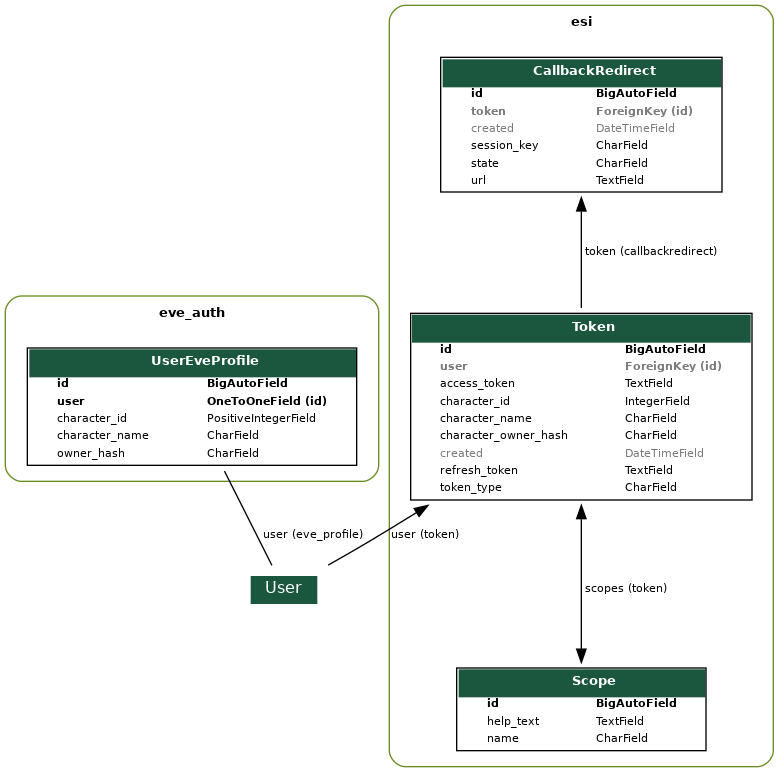
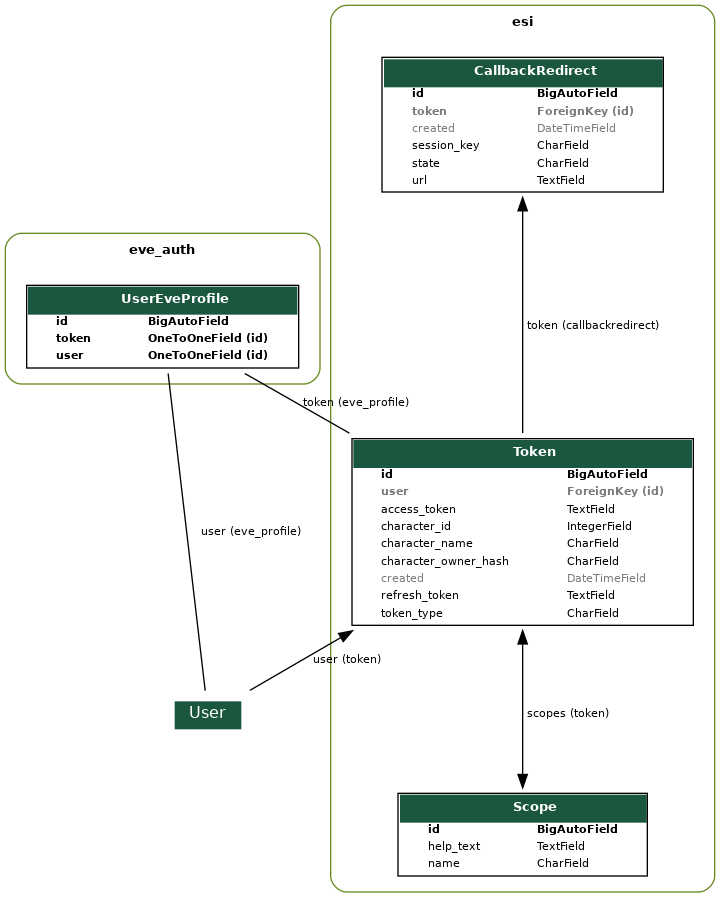
Replace character info in profile with token

diff --git a/eve_auth/tests/test_views.py b/eve_auth/tests/test_views.py
@@ -7,7 +7,7 @@ from django.urls import reverse
 from esi.models import Token
 
 from .. import views
-from .utils import create_fake_user
+from .utils import create_fake_token, create_fake_user
 
 MODULE_BACKEND = "eve_auth.backends"
 MODULE_VIEWS = "eve_auth.views"
@@ -16,12 +16,10 @@ OWNER_HASH = "owner-hash"
 OAUTH_TOKEN_URL = "https://login.eveonline.com/v2/oauth/token"
 
 
-def create_fake_token(owner_hash, user=None):
-    return Token.objects.create(
-        access_token="access-token",
+def fake_token(owner_hash, user=None):
+    return create_fake_token(
         character_id=1001,
         character_name="Bruce Wayne",
-        token_type="Character",
         character_owner_hash=owner_hash,
         user=user,
     )
@@ -46,9 +44,9 @@ class TestLogin(TestCase):
 
     def test_should_create_and_login_new_user(self):
         # given
-        token = create_fake_token(OWNER_HASH)
+        new_login_token = fake_token(OWNER_HASH)
         # when
-        request, response = self.login(token)
+        request, response = self.login(new_login_token)
         # then
         self.assertEqual(response.status_code, 302)
         self.assertEqual(response.url, "/login-success")
@@ -56,50 +54,46 @@ class TestLogin(TestCase):
         user = User.objects.get(pk=request.session["_auth_user_id"])
         self.assertEqual(user.first_name, "Bruce")
         self.assertEqual(user.last_name, "Wayne")
-        self.assertEqual(user.eve_profile.character_name, "Bruce Wayne")
-        self.assertEqual(user.eve_profile.character_id, 1001)
-        self.assertEqual(user.eve_profile.owner_hash, OWNER_HASH)
+        self.assertEqual(user.eve_profile.token, new_login_token)
 
     def test_should_login_existing_user(self):
         # given
-        token = create_fake_token(OWNER_HASH)
-        my_user = create_fake_user(1001, "Bruce Wayne", OWNER_HASH)
+        new_login_token = fake_token(OWNER_HASH)
+        existing_user = create_fake_user(1001, "Bruce Wayne", OWNER_HASH)
         # when
-        request, response = self.login(token)
+        request, response = self.login(new_login_token)
         # then
         self.assertEqual(response.status_code, 302)
         self.assertEqual(response.url, "/login-success")
         self.assertIn("_auth_user_id", request.session)
         user = User.objects.get(pk=request.session["_auth_user_id"])
-        self.assertEqual(my_user, user)
+        self.assertEqual(existing_user, user)
 
     def test_should_create_and_login_new_user_when_owner_has_changed(self):
         # given
-        token = create_fake_token("new-owner-hash")
-        my_user = create_fake_user(1001, "Bruce Wayne", OWNER_HASH)
+        new_login_token = fake_token("new-owner-hash")
+        existing_user = create_fake_user(1001, "Bruce Wayne", OWNER_HASH)
         # when
-        request, response = self.login(token)
+        request, response = self.login(new_login_token)
         # then
         self.assertEqual(response.status_code, 302)
         self.assertEqual(response.url, "/login-success")
         self.assertIn("_auth_user_id", request.session)
         user = User.objects.get(pk=request.session["_auth_user_id"])
-        self.assertNotEqual(my_user, user)
+        self.assertNotEqual(existing_user, user)
         self.assertEqual(user.first_name, "Bruce")
         self.assertEqual(user.last_name, "Wayne")
-        self.assertEqual(user.eve_profile.character_name, "Bruce Wayne")
-        self.assertEqual(user.eve_profile.character_id, 1001)
-        self.assertEqual(user.eve_profile.owner_hash, "new-owner-hash")
+        self.assertEqual(user.eve_profile.token, new_login_token)
 
     @patch(MODULE_VIEWS + ".messages")
-    def test_should_not_login_when_user_is_deactivate(self, messages):
+    def test_should_not_login_when_user_is_deactivated(self, messages):
         # given
-        token = create_fake_token(OWNER_HASH)
-        my_user = create_fake_user(1001, "Bruce Wayne", OWNER_HASH)
-        my_user.is_active = False
-        my_user.save()
+        new_login_token = fake_token(OWNER_HASH)
+        existing_user = create_fake_user(1001, "Bruce Wayne", OWNER_HASH)
+        existing_user.is_active = False
+        existing_user.save()
         # when
-        request, response = self.login(token)
+        request, response = self.login(new_login_token)
         # then
         self.assertEqual(response.status_code, 302)
         self.assertEqual(response.url, "/login-failed")
@@ -111,33 +105,27 @@ class TestLogin(TestCase):
     def test_should_not_login_when_authentication_failed(self, authenticate, messages):
         # given
         authenticate.return_value = None
-        token = create_fake_token(OWNER_HASH)
-        my_user = create_fake_user(1001, "Bruce Wayne", OWNER_HASH)
-        my_user.is_active = False
-        my_user.save()
+        new_login_token = fake_token(OWNER_HASH)
+        create_fake_user(1001, "Bruce Wayne", OWNER_HASH)
         # when
-        request, response = self.login(token)
+        request, response = self.login(new_login_token)
         # then
         self.assertEqual(response.status_code, 302)
         self.assertEqual(response.url, "/login-failed")
         self.assertNotIn("_auth_user_id", request.session)
         self.assertTrue(messages.error.called)
 
-    def test_should_delete_redundant_tokens(self):
+    def test_should_delete_new_login_token_if_user_already_exists(self):
         # given
-        token = create_fake_token(OWNER_HASH)
-        user = create_fake_user(1001, "Bruce Wayne", OWNER_HASH)
-        create_fake_token(OWNER_HASH, user)
+        existing_user = create_fake_user(1001, "Bruce Wayne", OWNER_HASH)
+        new_login_token = fake_token(OWNER_HASH)
         # when
-        request, response = self.login(token)
+        request, response = self.login(new_login_token)
         # then
         self.assertEqual(response.status_code, 302)
         self.assertEqual(response.url, "/login-success")
-        self.assertIn("_auth_user_id", request.session)
-        self.assertTrue(
-            User.objects.filter(pk=request.session["_auth_user_id"]).exists()
-        )
-        self.assertEqual(Token.objects.filter(user=user).count(), 1)
+        self.assertEqual(int(request.session["_auth_user_id"]), existing_user.id)
+        self.assertFalse(Token.objects.filter(pk=new_login_token.pk).exists())
 
 
 @patch(MODULE_VIEWS + ".app_settings.EVE_AUTH_LOGIN_URL", "/logged-out")

diff --git a/eve_auth/backends.py b/eve_auth/backends.py
@@ -3,6 +3,7 @@ import re
 
 from django.contrib.auth import get_user_model
 from django.contrib.auth.backends import BaseBackend
+from django.contrib.auth.models import User
 from esi.models import Token
 
 from .models import UserEveProfile
@@ -11,39 +12,30 @@ logger = logging.getLogger(__name__)
 
 
 class EveSSOBackend(BaseBackend):
-    def authenticate(self, request, token=None) -> object:
+    def authenticate(self, request, token: Token = None) -> User:
         """Authenticate user with Eve token."""
         if not isinstance(token, Token):
             return None
         User = get_user_model()
         try:
-            user = User.objects.get(eve_profile__owner_hash=token.character_owner_hash)
-        except User.DoesNotExist:
-            user = self.create_user_from_eve_character(
-                character_id=token.character_id,
-                charater_name=token.character_name,
-                owner_hash=token.character_owner_hash,
+            user = User.objects.get(
+                eve_profile__token__character_owner_hash=token.character_owner_hash
             )
+        except User.DoesNotExist:
+            user = self.create_user_from_token(token)
         return user
 
     @classmethod
-    def create_user_from_eve_character(
-        cls, character_id: int, charater_name: str, owner_hash: str
-    ) -> object:
-        """Create new user object with eve profile from an eve character."""
-        username = cls._clean_username(charater_name)
-        first_name, last_name = cls._first_and_last_name(charater_name)
+    def create_user_from_token(cls, token: Token) -> object:
+        """Create new user object from an ESI token."""
+        username = cls._clean_username(token.character_name)
+        first_name, last_name = cls._first_and_last_name(token.character_name)
         user = get_user_model().objects.create(
             username=cls._generate_username(username),
             first_name=first_name,
             last_name=last_name,
         )
-        UserEveProfile.objects.create(
-            user=user,
-            character_id=character_id,
-            character_name=charater_name,
-            owner_hash=owner_hash,
-        )
+        UserEveProfile.objects.create(user=user, token=token)
         return user
 
     @staticmethod

diff --git a/eve_auth/tests/utils.py b/eve_auth/tests/utils.py
@@ -2,19 +2,42 @@ import secrets
 import string
 
 from django.contrib.auth.models import User
+from esi.models import Token
 
 from ..backends import EveSSOBackend
+
+
+def create_fake_token(
+    character_id: int,
+    character_name: str,
+    user: User = None,
+    character_owner_hash: str = None,
+) -> Token:
+    if not character_owner_hash:
+        character_owner_hash = random_string(28)
+    return Token.objects.create(
+        access_token=random_string(28),
+        refresh_token=random_string(28),
+        user=user,
+        character_id=character_id,
+        character_name=character_name,
+        character_owner_hash=character_owner_hash,
+    )
 
 
 def create_fake_user(
     character_id: int, character_name: str, owner_hash: str = None
 ) -> User:
     """Create fake user from given eve character details."""
-    if not owner_hash:
-        owner_hash = random_string(28)
-    return EveSSOBackend.create_user_from_eve_character(
-        character_id=character_id, charater_name=character_name, owner_hash=owner_hash
+    token = create_fake_token(
+        character_id=character_id,
+        character_name=character_name,
+        character_owner_hash=owner_hash,
     )
+    user = EveSSOBackend.create_user_from_token(token)
+    token.user = user
+    token.save()
+    return user
 
 
 def random_string(length: int) -> int:

diff --git a/eve_auth/migrations/0001_initial.py b/eve_auth/migrations/0001_initial.py
@@ -1,4 +1,4 @@
-# Generated by Django 3.2.3 on 2021-05-31 19:34
+# Generated by Django 3.2.3 on 2021-06-03 13:23
 
 import django.db.models.deletion
 from django.conf import settings
@@ -11,6 +11,7 @@ class Migration(migrations.Migration):
 
     dependencies = [
         migrations.swappable_dependency(settings.AUTH_USER_MODEL),
+        ("esi", "0009_auto_20210531_1930"),
     ]
 
     operations = [
@@ -26,9 +27,14 @@ class Migration(migrations.Migration):
                         verbose_name="ID",
                     ),
                 ),
-                ("character_id", models.PositiveIntegerField(db_index=True)),
-                ("character_name", models.CharField(db_index=True, max_length=255)),
-                ("owner_hash", models.CharField(max_length=255, unique=True)),
+                (
+                    "token",
+                    models.OneToOneField(
+                        on_delete=django.db.models.deletion.CASCADE,
+                        related_name="eve_profile",
+                        to="esi.token",
+                    ),
+                ),
                 (
                     "user",
                     models.OneToOneField(

diff --git a/eve_auth/models.py b/eve_auth/models.py
@@ -2,6 +2,7 @@ from urllib.parse import urlencode, urljoin
 
 from django.conf import settings
 from django.db import models
+from esi.models import Token
 
 
 class UserEveProfile(models.Model):
@@ -13,12 +14,20 @@ class UserEveProfile(models.Model):
     user = models.OneToOneField(
         settings.AUTH_USER_MODEL, on_delete=models.CASCADE, related_name="eve_profile"
     )
-    character_id = models.PositiveIntegerField(db_index=True)
-    character_name = models.CharField(max_length=255, db_index=True)
-    owner_hash = models.CharField(max_length=255, unique=True)
+    token = models.OneToOneField(
+        Token, on_delete=models.CASCADE, related_name="eve_profile"
+    )
 
     def __str__(self) -> str:
         return self.character_name
+
+    @property
+    def character_id(self):
+        return self.token.character_id
+
+    @property
+    def character_name(self):
+        return self.token.character_name
 
     def character_portrait_url(self, size: int = DEFAULT_PORTRAIT_SIZE) -> str:
         """Return the image URL of the user's character portrait"""

diff --git a/eve_auth/views.py b/eve_auth/views.py
@@ -12,7 +12,7 @@ logger = logging.getLogger("__name__")
 
 
 @token_required(new=True, scopes=app_settings.EVE_AUTH_LOGIN_SCOPES)
-def login(request, token):
+def login(request, token: Token):
     """Login user with authorization from EVE SSO."""
     user = auth.authenticate(token=token)
     if user:

diff --git a/eve_auth/admin.py b/eve_auth/admin.py
@@ -11,7 +11,6 @@ from .models import UserEveProfile
 class UserEveProfileInline(admin.StackedInline):
     model = UserEveProfile
     can_delete = False
-    readonly_fields = ("character_id", "character_name", "owner_hash")
 
 
 class UserAdmin(BaseUserAdmin):

diff --git a/eve_auth/__init__.py b/eve_auth/__init__.py
@@ -1,1 +1,1 @@
-__version__ = "0.1.0dev1"
+__version__ = "0.2.0dev1"

diff --git a/CHANGELOG.md b/CHANGELOG.md
@@ -13,7 +13,7 @@ and this project adheres to [Semantic Versioning](http://semver.org/).
 
 ### Fixed
 
-## [0.1.0] - tbd
+## [0.2.0] - tbd
 
 ### Added
 
